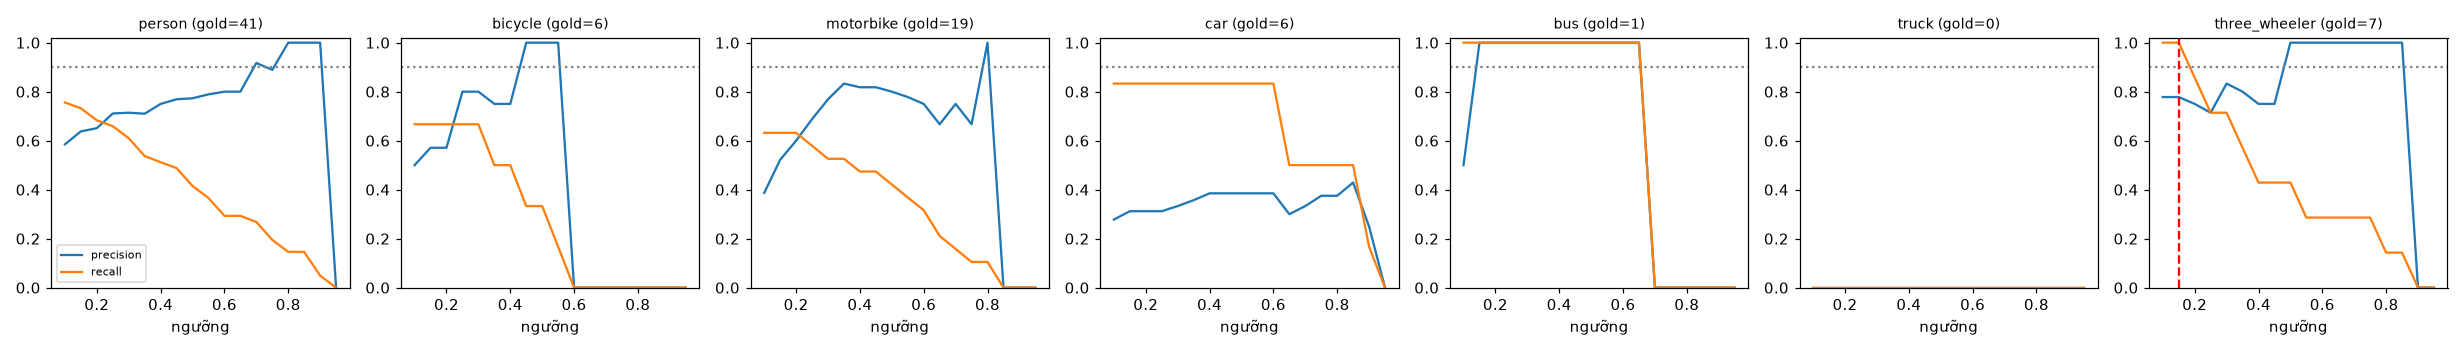
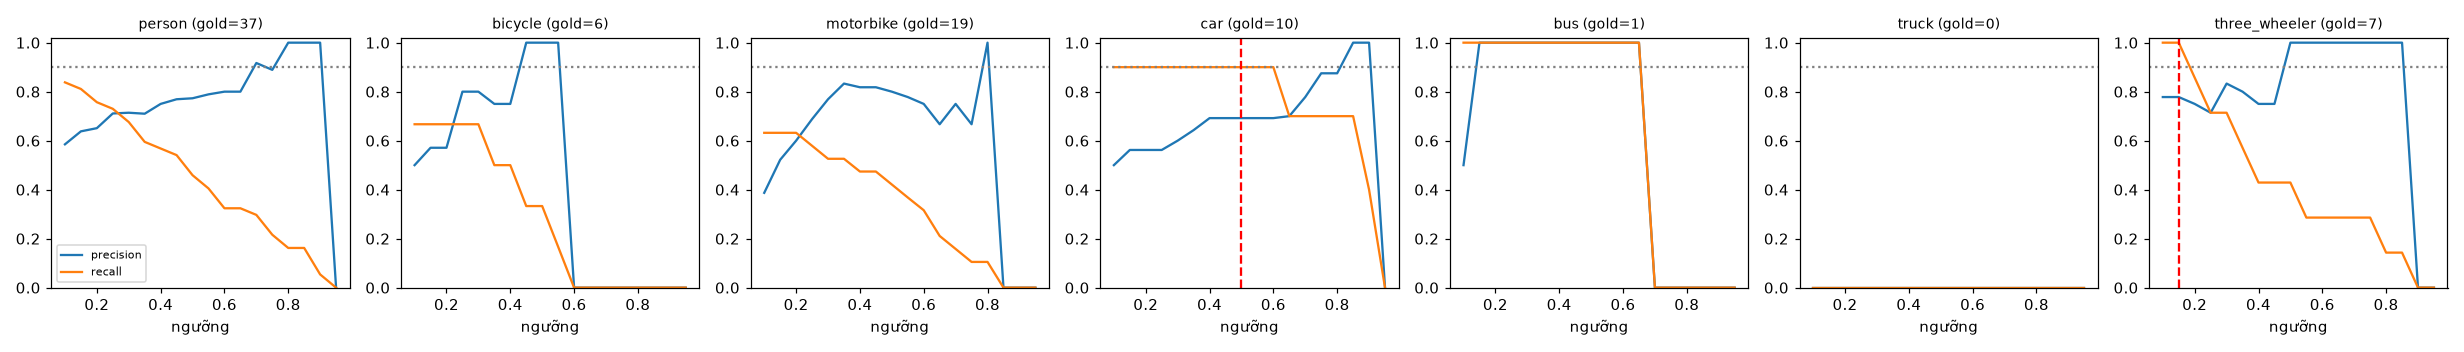
Part 6: sửa 4 box gold sai lớp person->car, chạy lại threshold_sweep và review_stats

diff --git a/submission/qc/threshold_sweep.md b/submission/qc/threshold_sweep.md
@@ -4,14 +4,14 @@ Mục tiêu recall: 90%. Ảnh dùng để quét: 4.
 
 | Lớp | Ngưỡng gợi ý | Lý do |
 |---|---|---|
-| person | (mặc định) | không ngưỡng nào <= 0.5 đạt recall 90% (tối đa 76%, 41 vật): dùng ngưỡng mặc định, nói rõ trong báo cáo |
+| person | (mặc định) | không ngưỡng nào <= 0.5 đạt recall 90% (tối đa 84%, 37 vật): dùng ngưỡng mặc định, nói rõ trong báo cáo |
 | bicycle | (mặc định) | không ngưỡng nào <= 0.5 đạt recall 90% (tối đa 67%, 6 vật): dùng ngưỡng mặc định, nói rõ trong báo cáo |
 | motorbike | (mặc định) | không ngưỡng nào <= 0.5 đạt recall 90% (tối đa 63%, 19 vật): dùng ngưỡng mặc định, nói rõ trong báo cáo |
-| car | (mặc định) | không ngưỡng nào <= 0.5 đạt recall 90% (tối đa 83%, 6 vật): dùng ngưỡng mặc định, nói rõ trong báo cáo |
+| car | 0.5 | recall 90% (>= 90%), precision 69% (10 vật gold) |
 | bus | (mặc định) | chỉ 1 vật trong ảnh gold (< 5): mẫu quá ít, KHÔNG chọn ngưỡng theo lớp này, dùng ngưỡng mặc định |
 | truck | (mặc định) | chỉ 0 vật trong ảnh gold (< 5): mẫu quá ít, KHÔNG chọn ngưỡng theo lớp này, dùng ngưỡng mặc định |
 | three_wheeler | 0.15 | recall 100% (>= 90%), precision 78% (7 vật gold) |
 
-Dán vào lệnh merge_prelabels (lớp không có trong chuỗi dùng `--conf` mặc định 0.3): `--thr "three_wheeler=0.15"`
+Dán vào lệnh merge_prelabels (lớp không có trong chuỗi dùng `--conf` mặc định 0.3): `--thr "car=0.5,three_wheeler=0.15"`
 
 Lưu ý: bạn chọn ngưỡng trên chính nhãn gold, nên precision / recall của máy trên gold ở ngưỡng đã chọn là con số **lạc quan** (chọn và chấm trên cùng dữ liệu); chỉ có vài ảnh -> ngưỡng là ước lượng thô; lớp có ít vật (xem n_gold) thì kết luận yếu.

diff --git a/submission/qc/review_stats.md b/submission/qc/review_stats.md
@@ -28,7 +28,7 @@ Trong số deleted + added, **9 trường hợp là đổi lớp** (máy gán sa
 Ảnh gold: 4; đối tượng gold: 80 (mẫu số của recall)
 | | TP | FP | FN | Precision | Recall |
 |---|---|---|---|---|---|
-| Máy (pre-label) | 52 | 22 | 28 | 70.3% (KTC 95%: 59–79%) | 65.0% (KTC 95%: 54–75%) |
+| Máy (pre-label) | 56 | 18 | 24 | 75.7% (KTC 95%: 65–84%) | 70.0% (KTC 95%: 59–79%) |
 
 *Lạc quan: ngưỡng được chọn trên chính các ảnh gold này (in-sample), và chỉ có 4 ảnh. Đọc khoảng tin cậy, đừng đọc con số đơn.*
 
